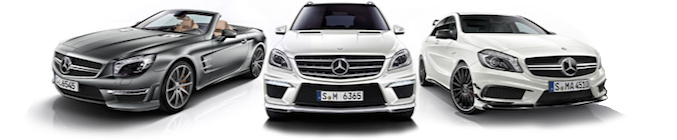
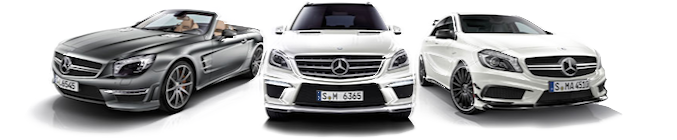
Visual work

diff --git a/vendor/assets/stylesheets/spree/frontend/auto_service.scss b/vendor/assets/stylesheets/spree/frontend/auto_service.scss
@@ -3,10 +3,11 @@
 
 .autoservice-wrapper
 {
+  padding-bottom: 10px;
 }
 
 .autoservice-row{
-  background-color: #f1f1f1;
+  background-color: #e2e2e2;
   padding-top: 10px;
   padding-bottom: 5px;
 }
@@ -55,4 +56,36 @@
 .autoservice-content-padding{
   padding-left: 20px;
 }
+
+.autoservice-work-time{
+  background-color: #fff;
+  border-radius: 4px;
+  width: 100%;
+  border: 1px solid #e2e2e2;
+  padding: 15px;
+  padding-bottom: 0 !important;
+}
+
+.autoservice-work-time__header{
+  display: inline-block;
+  width: 100%;
+  float: left;
+  vertical-align: middle;
+  border-bottom: 1px solid #e2e2e2;
+  padding-bottom: 10px;
+  img{
+    margin-right:10px;
+  }
+
+  margin-bottom: 5px;
+}
+
+.autoservice-work-time__content{
+  padding-left: 10px;
+  ul{
+    padding-left: 10px;
+  }
+}
+
+
 

diff --git a/vendor/assets/stylesheets/spree/frontend/header.scss b/vendor/assets/stylesheets/spree/frontend/header.scss
@@ -10,10 +10,14 @@
   padding: 10px 16px;
   margin-right: 10px;
   vertical-align: middle;
-
-
 }
 
 .login-button:hover{
   background-image: url(asset_path("user/login-hover.png"));
+}
+
+.custom-menu{
+  margin-top: 10px;
+  border-radius: 0px !important;
+  right: -50px;
 }

diff --git a/vendor/assets/stylesheets/spree/frontend/background.scss b/vendor/assets/stylesheets/spree/frontend/background.scss
@@ -16,5 +16,5 @@
 
 .preview-lg{
   @include preview-default;
-  background-image: url(asset-path("general/auto-large.jpg"));
+  background-image: url(asset-path("general/auto-large.png"));
 }

diff --git a/app/assets/javascripts/application.js b/app/assets/javascripts/application.js
@@ -11,6 +11,7 @@
 // about supported directives.
 //
 //= require jquery
+//= require bootstrap-sprockets
 //= require jquery_ujs
 //= require turbolinks
 //= require_tree .

diff --git a/vendor/assets/stylesheets/spree/frontend/global.scss b/vendor/assets/stylesheets/spree/frontend/global.scss
@@ -3,4 +3,7 @@ $navbar-height: 39px;
 
 @import 'bootstrap';
 
-body { padding-top: 60px; }
+body {
+  padding-top: 60px;
+  background-color: #f1f1f1;
+}

diff --git a/vendor/assets/javascripts/spree/frontend/all.js b/vendor/assets/javascripts/spree/frontend/all.js
@@ -6,7 +6,6 @@
 //
 //= require jquery
 //= require jquery_ujs
-//= require bootstrap.min
 //= require spree/frontend
 
 
